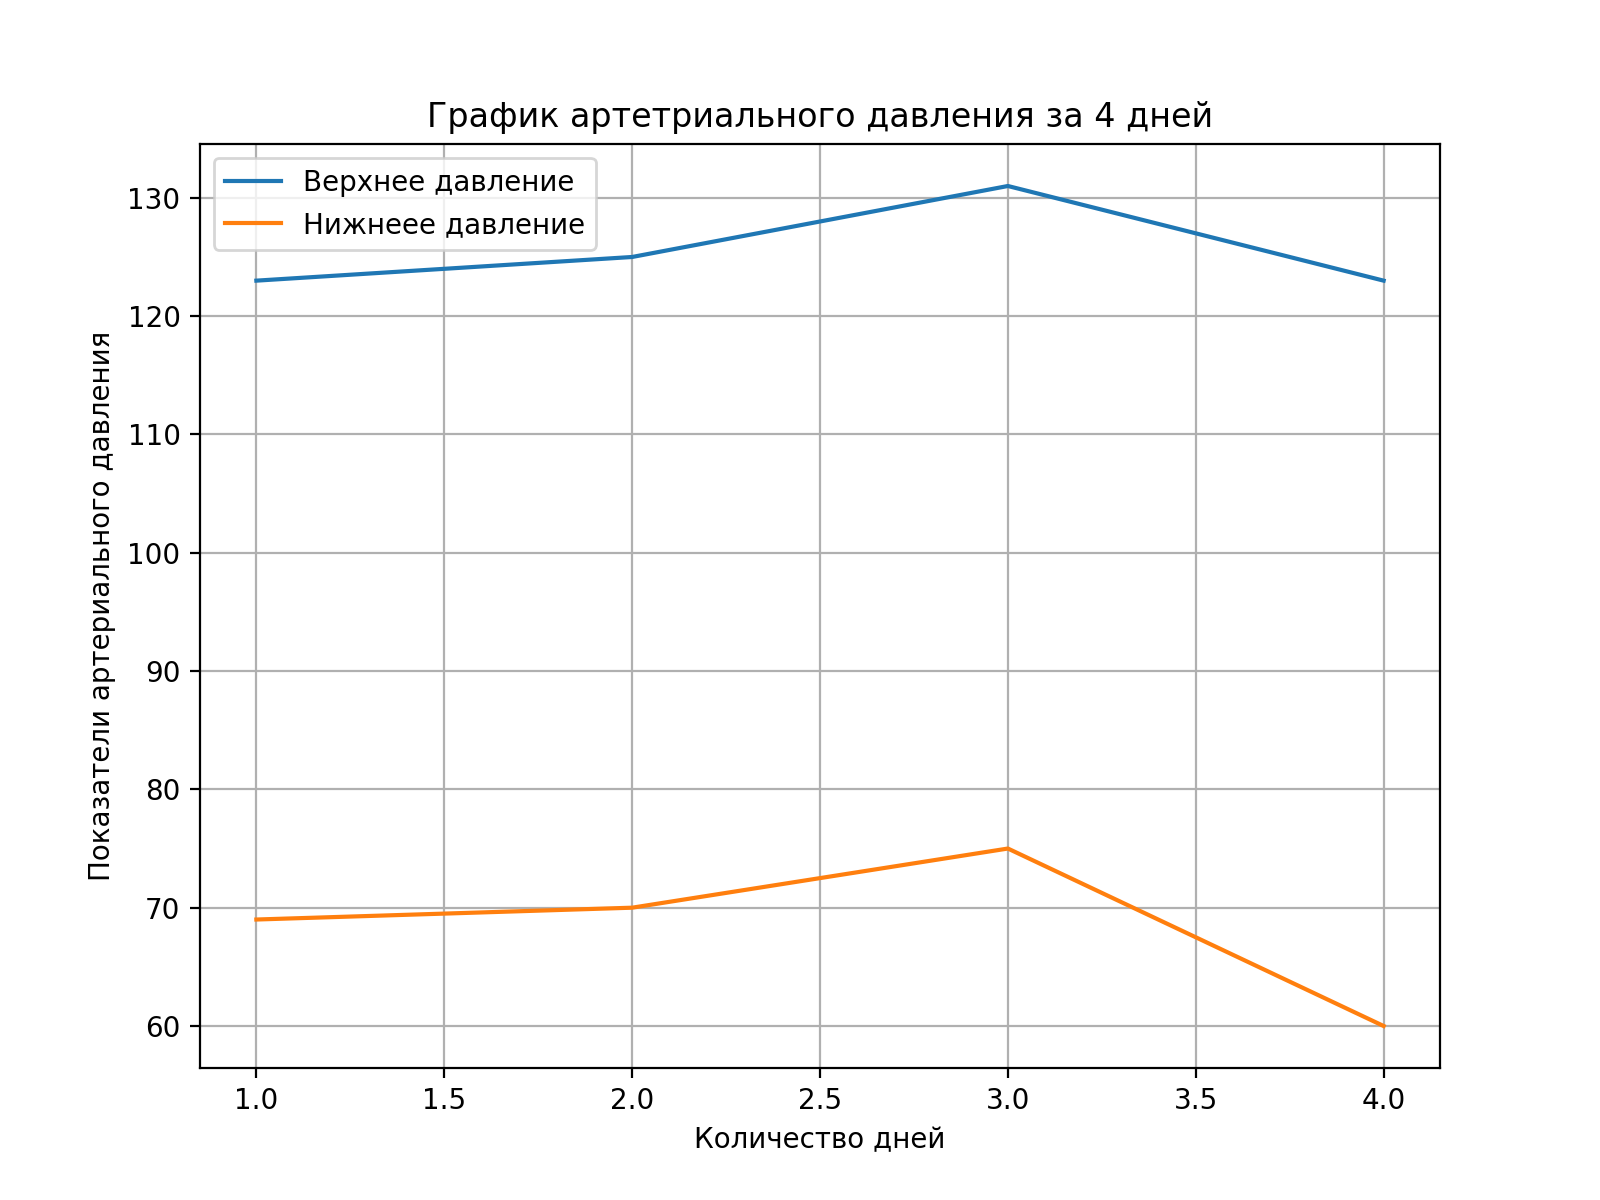
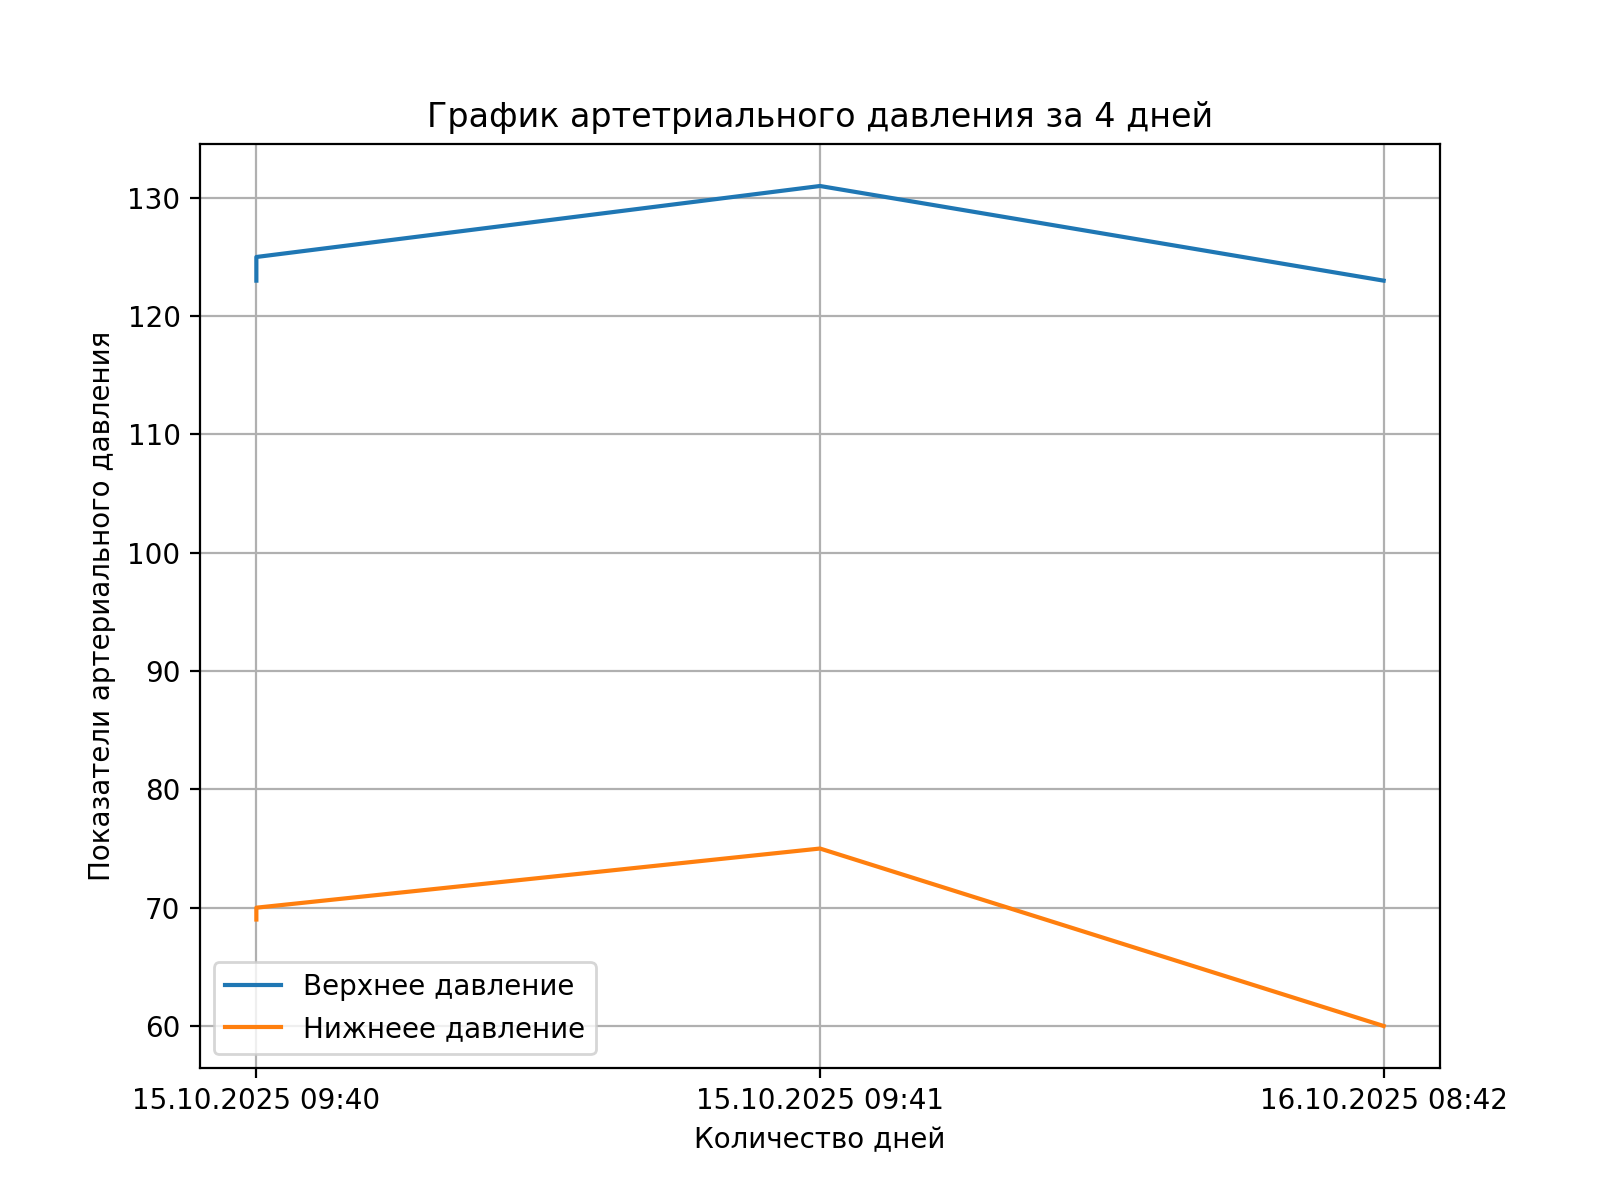
graph fixes

diff --git a/utils/tools.py b/utils/tools.py
@@ -6,6 +6,7 @@ import os
 import matplotlib.pyplot as plt
 
 from config_data.config import Config, load_config
+from database.orm import get_bloods
 
 config: Config = load_config()
 ow_token = config.open_weather.weather_token
@@ -51,13 +52,13 @@ def create_graph(blood_data, days):
 
     days = len(hi_blood)
     
-    days_list = [i for i in range(1, days + 1)]
+    dates = [date.register_date.strftime("%d.%m.%Y %H:%M") for date in blood_data]
 
     plt.figure(figsize=(8, 6))
 
 
-    plt.plot(days_list, hi_blood, label='Верхнее давление')
-    plt.plot(days_list, low_blood, label='Нижнеее давление')
+    plt.plot(dates, hi_blood, label='Верхнее давление')
+    plt.plot(dates, low_blood, label='Нижнеее давление')
     # ax.plot(days, pulse, label='Пульс')
 
     # ax.bar(days, hi)
@@ -65,11 +66,11 @@ def create_graph(blood_data, days):
 
     plt.title(f'График артетриального давления за {days} дней')
     plt.ylabel('Показатели артериального давления')
-    plt.xlabel('Количество дней')
+    plt.xlabel('Измерения')
     plt.grid(True)
     plt.legend() 
-    if not os.path.exists('/files'):
-        os.mkdir('/files')
+    if not os.path.exists('./files'):
+        os.mkdir('./files')
     graph_filename = './files/plot.png'
     plt.savefig(graph_filename, dpi=200)
     return graph_filename
